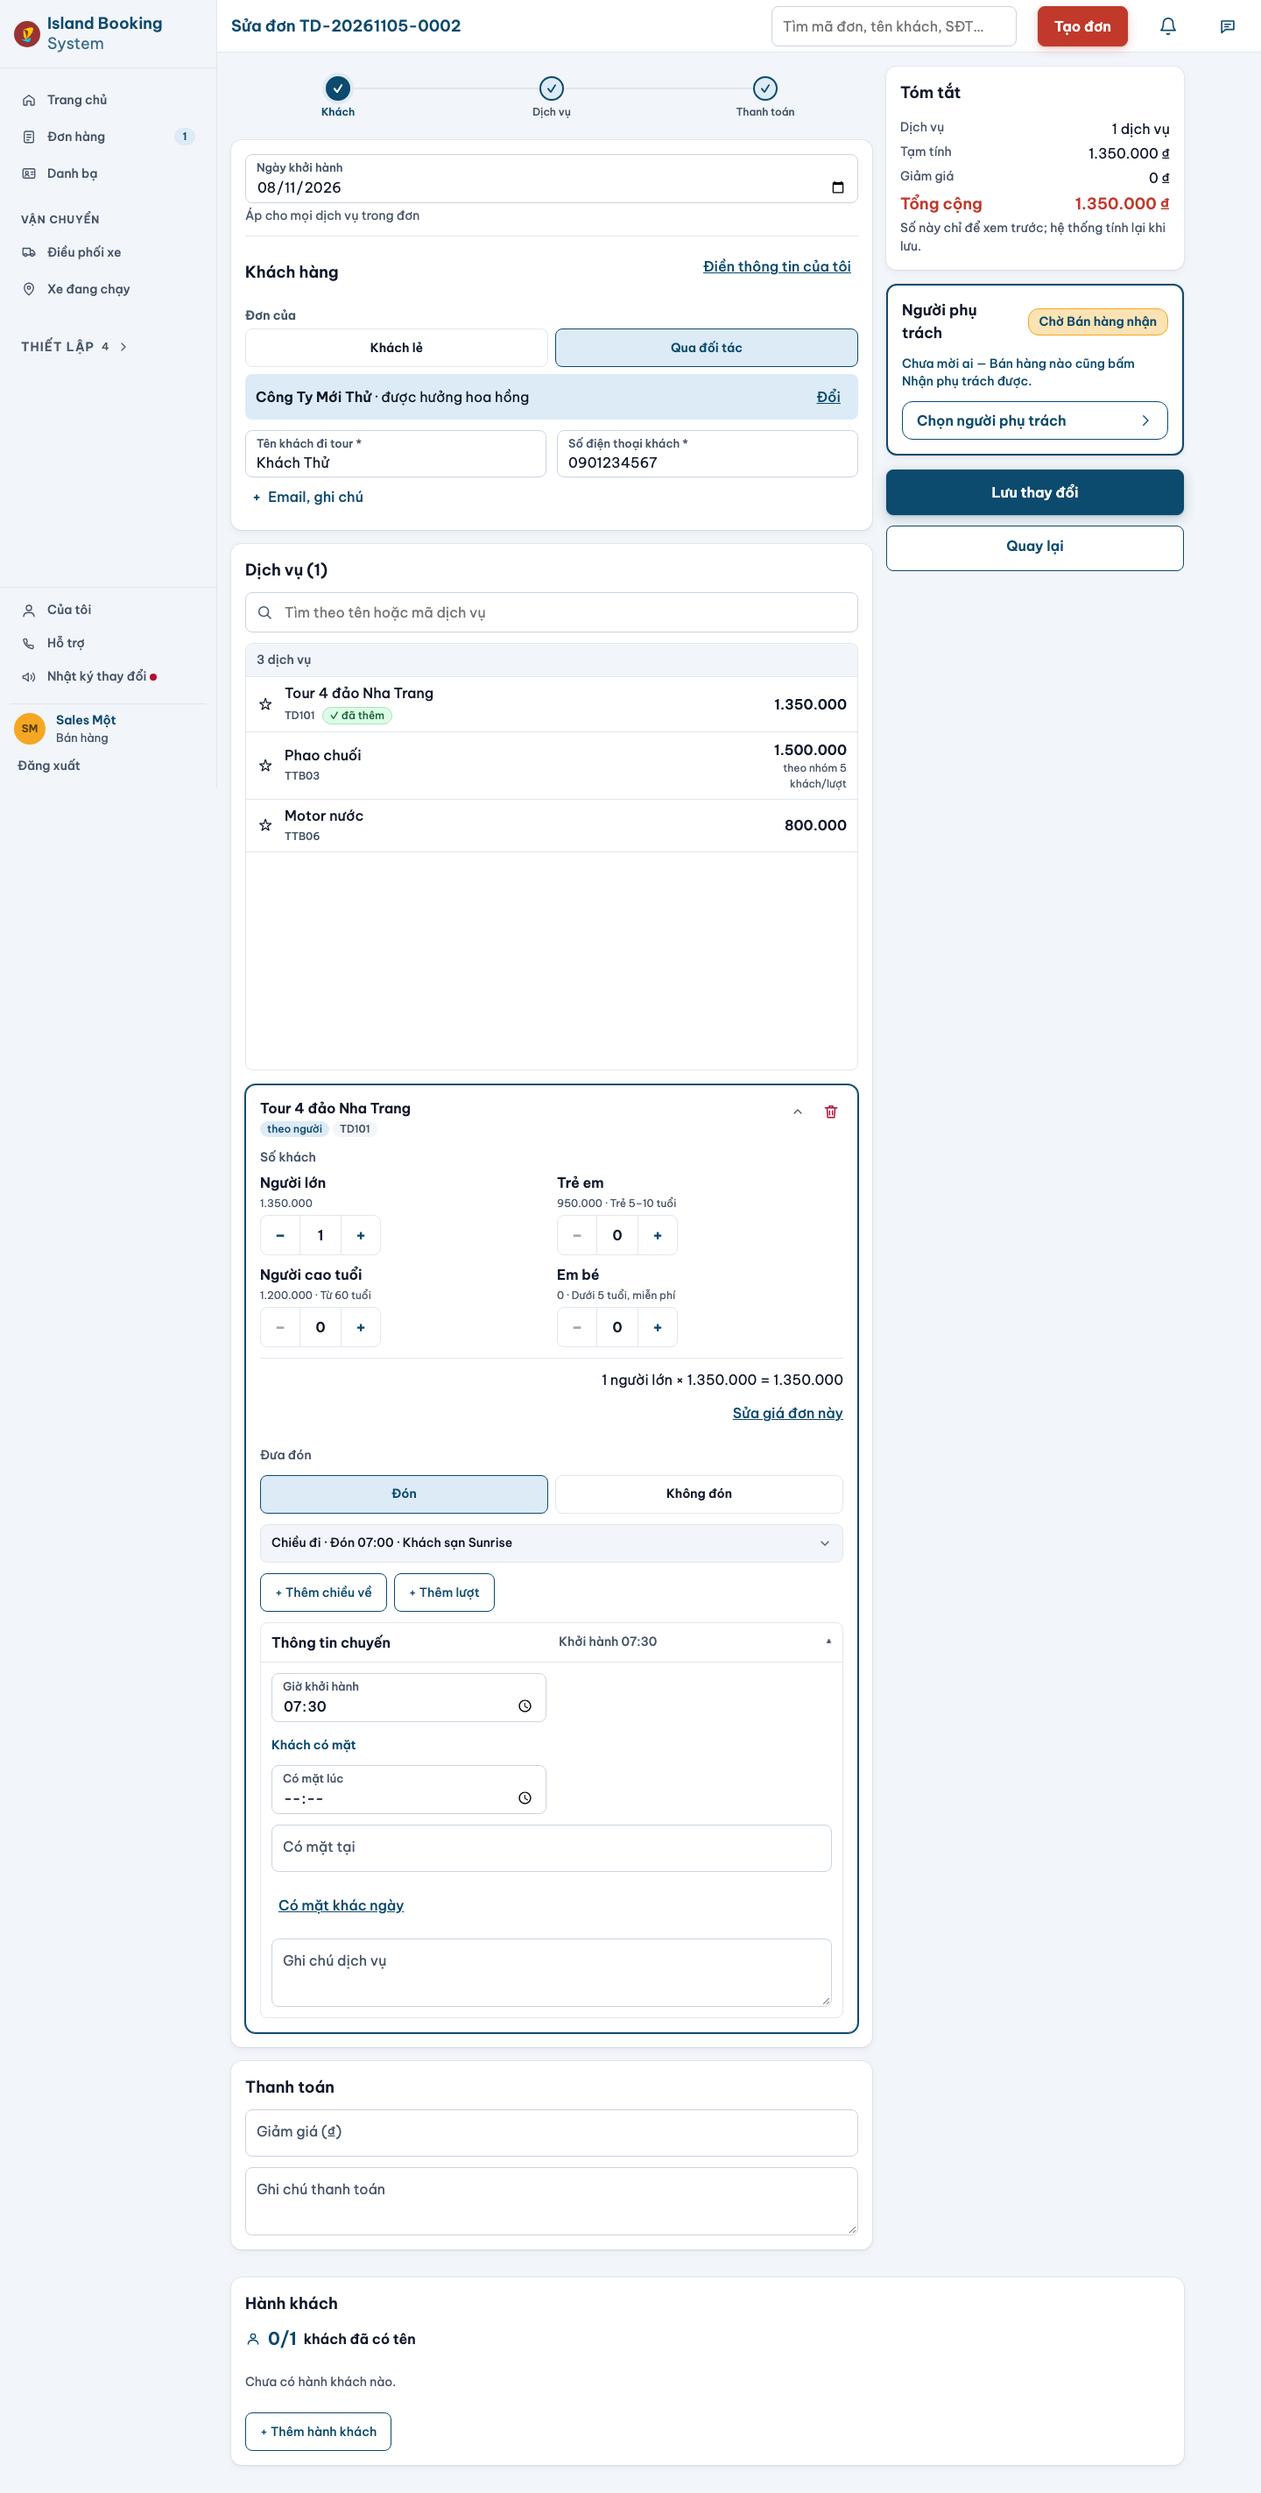
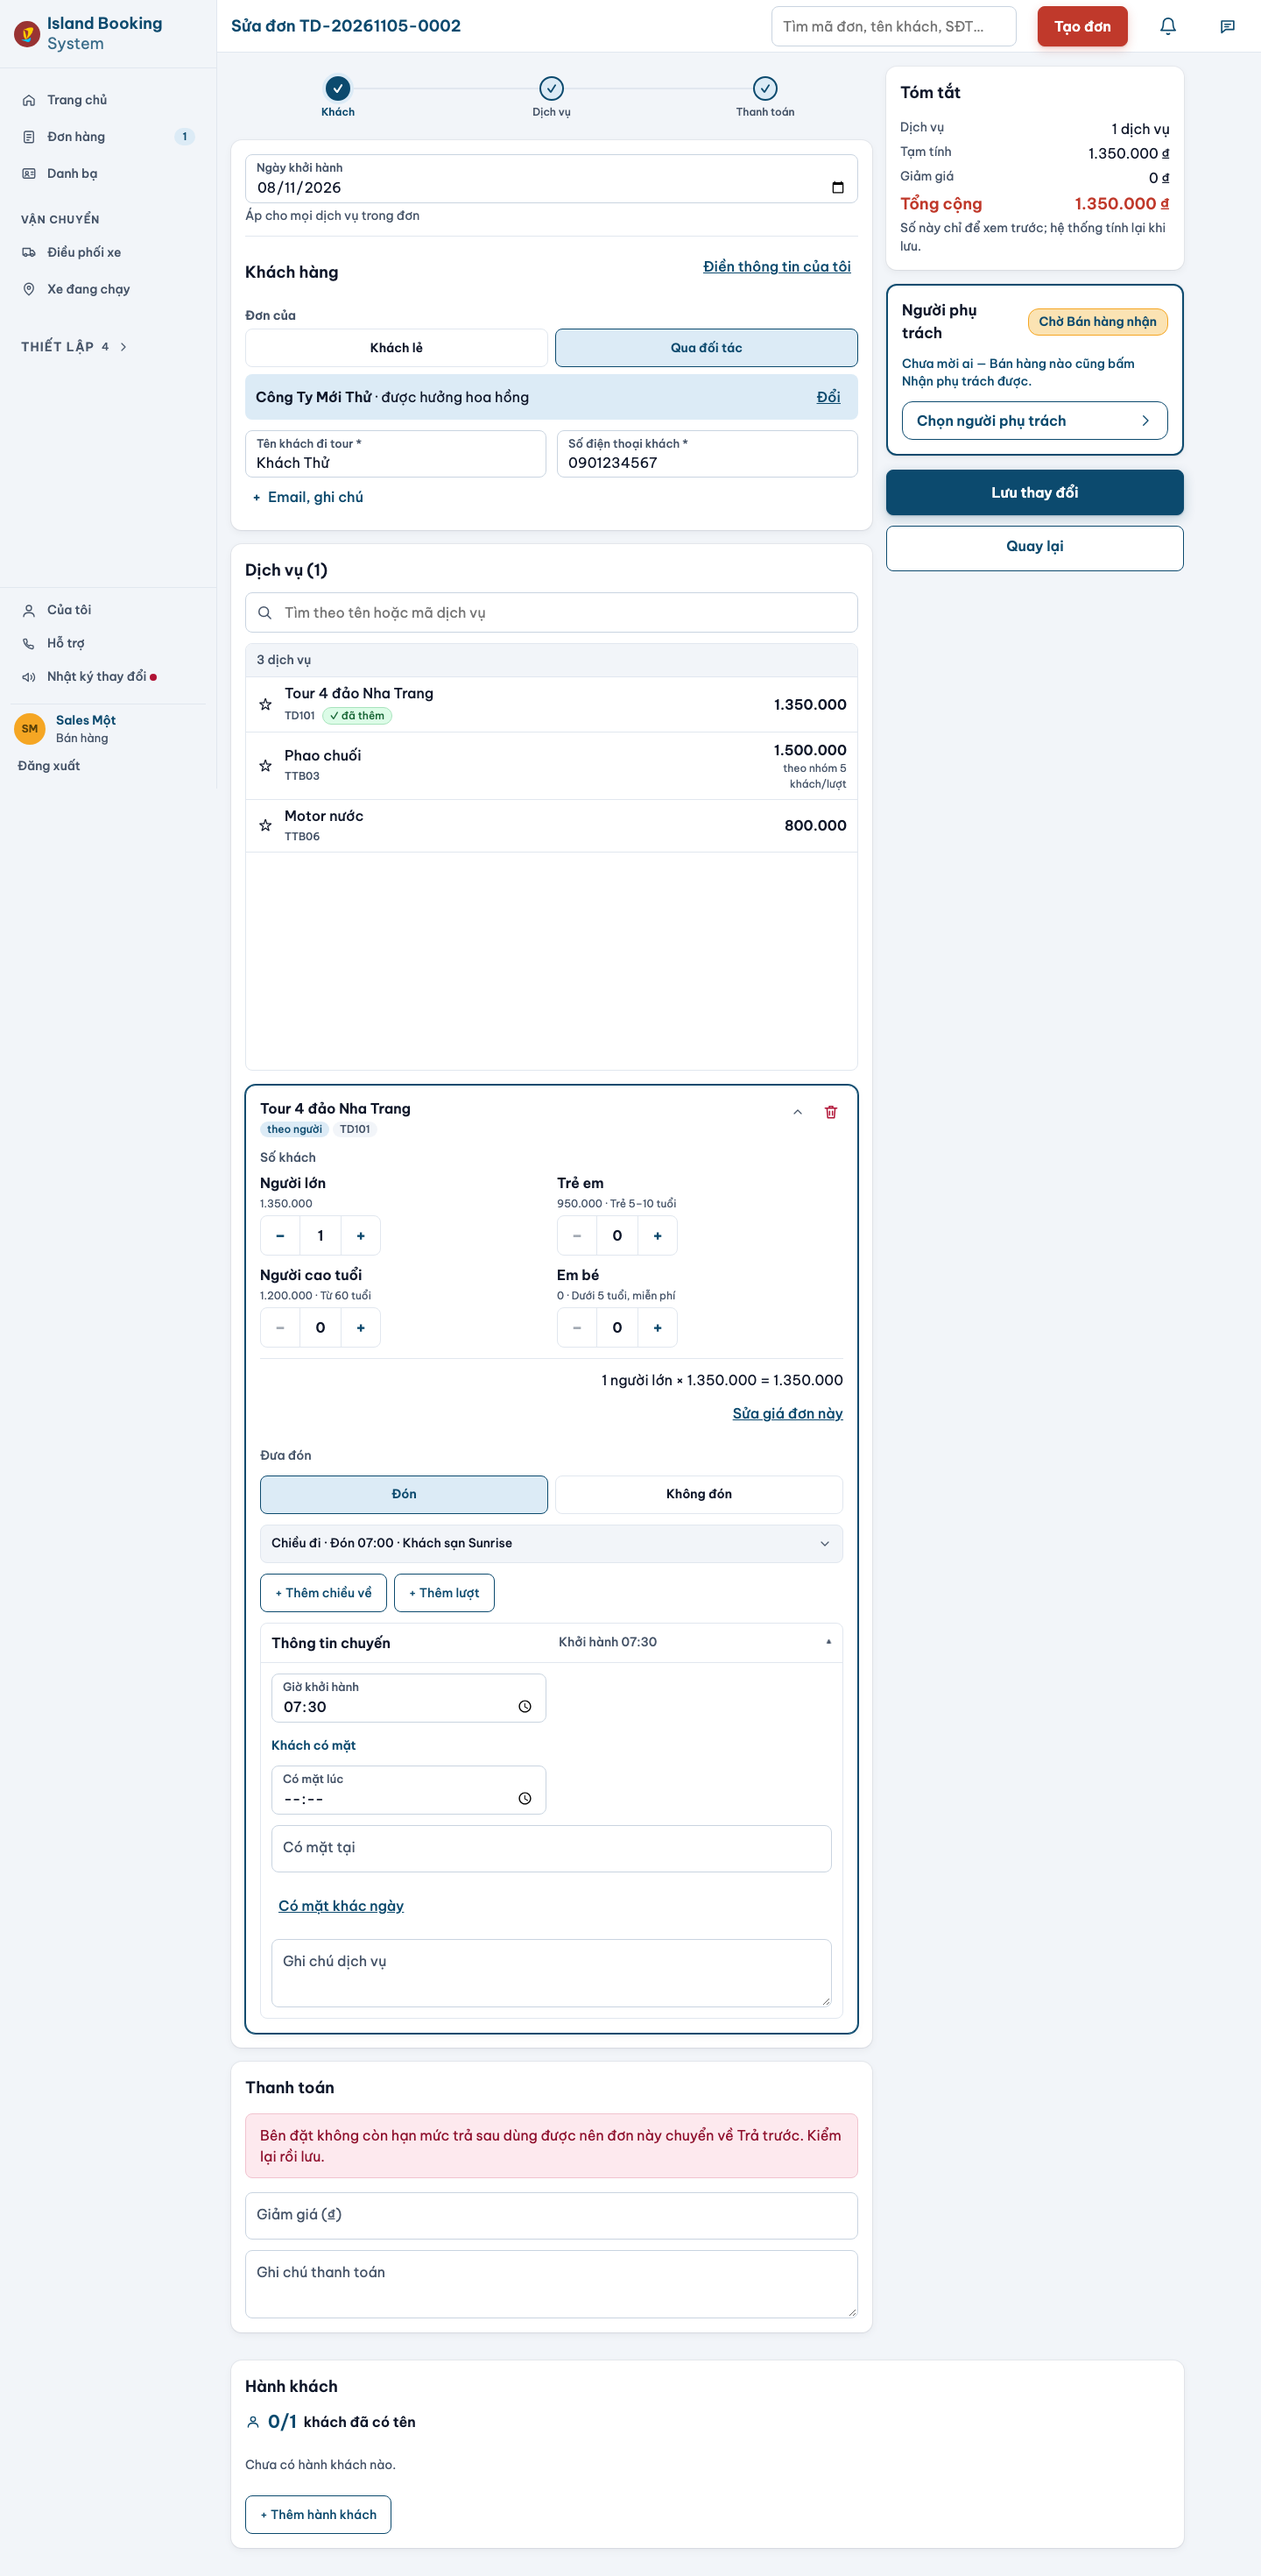
Trả sau: giữ hình thức muốn dùng tách khỏi ô đang hiện để câu báo không bị xoá
Hỏi hạn mức nhiều lần lúc mở nháp: lần đầu đưa ô về Trả trước kèm câu báo, lần sau đọc lại ô, thấy Trả trước và xoá câu báo. Tuỳ tốc độ mạng, bấm lưu sẽ đổi đơn mà người dùng không được báo. Lý do này cũng thay bản vá ở commit trước nên bỏ bản vá đó. Kịch bản F4 kiểm thêm câu báo còn sau các lần hỏi.

diff --git a/web/order-form.ts b/web/order-form.ts
@@ -854,13 +854,9 @@ function napBenDat(o: Api.OrderDetailDto): void {
     return;
   }
   datQua?.datChon(null);
-  // `datBenDat(null)` chạy TRƯỚC `set`: giữa hai bước ô bên đặt trống tạm, kể cả khi nạp lại nháp sau lỗi lưu (đã qua lần mở đầu), nên tạm coi là chưa nạp để không đổi hình thức đang chọn.
-  const daNapTruoc = donDaNap;
-  donDaNap = false;
   datBenDat(null);
   bookerPicker.set(o.bookerPartyId, o.bookerName);
-  donDaNap = daNapTruoc;
-  void napTraSau(); // hỏi lại khi bên đặt đã nạp xong, nếu không khối Trả sau ẩn nhầm
+  void napTraSau(); // `datBenDat(null)` chạy TRƯỚC `set`: hỏi lại khi bên đặt đã nạp xong, nếu không khối Trả sau ẩn nhầm
 }
 
 /** Trả các câu báo (dịch vụ thuộc nhóm tắt đưa đón mà nháp còn chặng → form bỏ chặng đó; ADR-0118 Đ5). */
@@ -1060,7 +1056,13 @@ function anHienDatCoc(): void {
   byId("dat-coc-o").hidden = !coODatCoc || an;
   byId("dat-coc-goi-y").hidden = !coODatCoc || an;
 }
+/**
+ * Hình thức của nháp hoặc người dùng đã chọn, tách khỏi ô đang hiện: `napTraSau` có thể đưa ô về Trả trước vì hết hạn mức, và các lần hỏi sau phải vẫn biết đơn muốn Trả sau.
+ * Đọc từ ô thì lần hỏi thứ hai thấy Trả trước, xoá câu báo, và bấm lưu sẽ đổi đơn mà người dùng không được báo.
+ */
+let hinhThucMuon: "PREPAID" | "CREDIT" = "PREPAID";
 function datHinhThuc(v: "PREPAID" | "CREDIT"): void {
+  hinhThucMuon = v;
   oHinhThuc(v).checked = true;
   anHienDatCoc();
 }
@@ -1080,7 +1082,7 @@ async function napTraSau(): Promise<void> {
     try { c = cauChonTraSau(await api<Api.ConDuocDungTraSauResponse>(`/api/tra-sau/con-duoc-dung?benDat=${encodeURIComponent(id)}`)); } catch { return; /* không đọc được: giữ nguyên lựa chọn đang có, máy chủ vẫn kiểm lại lúc lưu */ }
   }
   if (luot !== traSauLuot) return; // có lần hỏi mới hơn (đổi bên đặt liên tục): bỏ kết quả cũ
-  const q = quyetHinhThuc({ dangChon: hinhThucChon(), c, benDatChuaNap: id === null && !donDaNap });
+  const q = quyetHinhThuc({ dangChon: hinhThucMuon, c, benDatChuaNap: id === null && !donDaNap });
   traSauHien = c.hien;
   khoiTraSau.hidden = !c.hien;
   byId("tra-sau-cau").textContent = c.khoa ?? c.cau;
@@ -1091,7 +1093,7 @@ async function napTraSau(): Promise<void> {
   bao.hidden = q.bao === null;
   anHienDatCoc();
 }
-for (const v of ["PREPAID", "CREDIT"]) oHinhThuc(v).addEventListener("change", () => { anHienDatCoc(); });
+for (const v of ["PREPAID", "CREDIT"]) oHinhThuc(v).addEventListener("change", () => { hinhThucMuon = hinhThucChon(); byId("tra-sau-bao").hidden = true; anHienDatCoc(); });
 void napTraSau();
 if (khoiBenDat.kieu === "chi-doc") {
   bookerPicker.tat();
